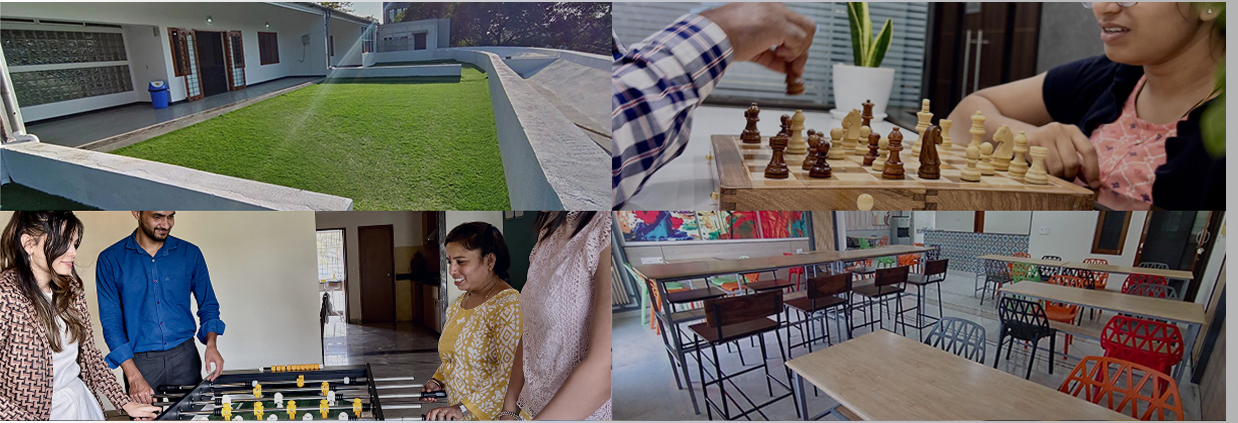
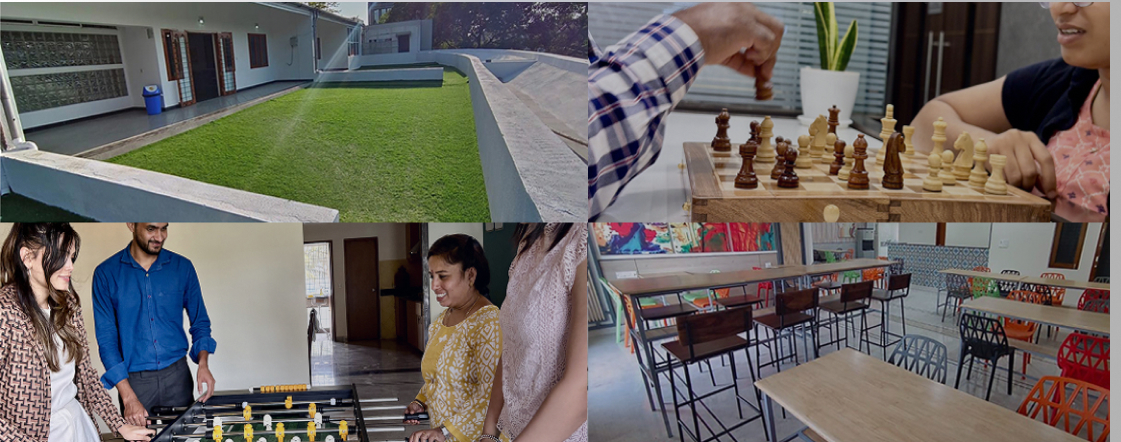
REFINE:REPLACED IMAGES AT KIFE AT VST

diff --git a/src/components/LifeAtVst.tsx b/src/components/LifeAtVst.tsx
@@ -16,7 +16,7 @@ const LifeAtVst = () => {
       title: "Life At VST",
       subtitle: "Commitment To Partnerships",
       description:
-        "Strong partnerships are the cornerstone of enduring success. We cultivate collaborative ecosystems built on trust, transparency, and mutual growth. By forming strategic alliances across industries, our partners gain access to deep expertise, shared resources, and a supportive network—driving innovation and sustainable success together. With every collaboration, we bring the same focus, passion, and commitment that turns every brand we touch into a success story.",
+        "Strong partnerships are the cornerstone of enduring success. We cultivate collaborative ecosystems built on trust, transparency and mutual growth. By forming strategic alliances across industries, our partners gain access to deep expertise, shared resources and a supportive network—driving innovation and sustainable success together. With every collaboration, we bring the same focus, passion and commitment that turns every brand we touch into a success story.",
     },
     {
       number: "02",
@@ -24,7 +24,7 @@ const LifeAtVst = () => {
       title: "Life At VST",
       subtitle: "Fueling Talent With Opportunity",
       description:
-        "People are our greatest strength. We're dedicated to nurturing talent through dynamic career paths, continuous learning, and skill-building initiatives. Our culture of innovation, inclusivity, and growth empowers employees to thrive, lead with confidence, and shape a brighter future—for themselves and for the organisation. We continuously invest in enhancing the quality of professional life—through thoughtful policies, modern tools, and a supportive work environment that enables people to feel valued, motivated, and future-ready.",
+        "People are our greatest strength. We're dedicated to nurturing talent through dynamic career paths, continuous learning and skill-building initiatives. Our culture of innovation, inclusivity and growth empowers employees to thrive, lead with confidence and shape a brighter future—for themselves and for the organisation. We continuously invest in enhancing the quality of professional life—through thoughtful policies, modern tools and a supportive work environment that enables people to feel valued, motivated and future-ready.",
     },
     {
       number: "03",
@@ -32,7 +32,7 @@ const LifeAtVst = () => {
       title: "Life At VST",
       subtitle: "Innovation Through Collaboration",
       description:
-        "Community lies at the heart of who we are. We foster a workplace where collaboration, belonging, and well-being are prioritised. Through engaging experiences, meaningful initiatives, and a culture that celebrates both work and play, our environment supports not just productivity—but personal joy too. We believe work should be fulfilling and fun, with the right balance that makes every day feel worthwhile.",
+        "Community lies at the heart of who we are. We foster a workplace where collaboration, belonging and well-being are prioritised. Through engaging experiences, meaningful initiatives and a culture that celebrates both work and play, our environment supports not just productivity—but personal joy too. We believe work should be fulfilling and fun, with the right balance that makes every day feel worthwhile.",
     },
   ]
 
@@ -80,7 +80,7 @@ const LifeAtVst = () => {
            onMouseEnter={() => setIsHovered(true)}
            onMouseLeave={() => setIsHovered(false)}>
         {/* Left half - Image container */}
-        <div className="relative w-full md:w-1/2 h-462px">
+        <div className="relative w-full md:w-1/2 h-562px">
           {slides.map((slide, index) => (
             <motion.div
               key={index}
@@ -96,7 +96,8 @@ const LifeAtVst = () => {
                 src={slide.image}
                 alt={`Life at VST ${index + 1}`}
                 layout="fill"
-                objectFit="cover"
+                objectFit="contain"
+                objectPosition="left"
               />
             </motion.div>
           ))}
@@ -109,15 +110,15 @@ const LifeAtVst = () => {
             {/* Content wrapper to maintain consistent width */}
             <div className="w-full max-w-[75%]">
               {/* Heading with digits on same line */}
-              <div className="flex items-center w-full mb-2">
+              <div className="flex items-center w-full ">
                 <div className="flex items-baseline w-full">
                   {/* Number container with fixed width */}
                   <div className="flex items-baseline mr-2 md:mr-4 flex-shrink-0">
-                    <span className="text-clamp-80 font-rocWide text-white font-weight-200">0</span>
+                    <span className="text-4xl md:text-5xl lg:text-6xl font-rocWide text-white font-weight-200">0</span>
                     <AnimatePresence mode="wait">
                       <motion.span
                         key={currentSlide}
-                        className="text-clamp-80 font-rocWide animate-flowing-gradient"
+                        className="text-4xl md:text-5xl lg:text-6xl font-rocWide animate-flowing-gradient"
                         initial={{ opacity: 0, y: 20 }}
                         animate={{ opacity: 1, y: 0 }}
                         exit={{ opacity: 0, y: -20 }}
@@ -159,10 +160,10 @@ const LifeAtVst = () => {
                   transition={{ duration: 0.5, ease: "easeOut" }}
                   className="w-full h-[230px] md:h-[300px] overflow-y-auto"
                 >
-                  <h2 className="text-xl md:text-lg lg:text-lg xl:text-lg font-normal mb-3 text-left font-roc">
+                  <h2 className="text-lg md:text-xl font-normal mb-2 text-left font-roc">
                     {slides[currentSlide].subtitle}
                   </h2>
-                  <p className="text-base md:text-sm lg:text-base xl:text-base font-normal leading-relaxed w-full" 
+                  <p className="text-sm md:text-base font-normal leading-relaxed w-full" 
                      style={{ 
                        wordBreak: "break-word",
                        textAlign: "justify",

diff --git a/src/app/manufacture/page.tsx b/src/app/manufacture/page.tsx
@@ -80,7 +80,7 @@ const ManufacturePage = () => {
     <div className="xl:pt-12 bg-[linear-gradient(180deg,#02231C_0%,#04473F_50%,#066C5E_100%)]">
       <div className="mx-auto px-4 md:px-8 lg:px-12 pb-12 flex flex-col justify-around w-[95%] md:w-[98%]">
         {/* Tillers & Tractors Heading */}
-        <h1 className="text-clamp-120 font-normal my-8 md:my-12 text-white text-center font-roc">
+        <h1 className="text-3xl sm:text-4xl lg:text-[50px] xl:text-[80px] 2xl:text-[70px] 3xl:text-[100px] font-normal mt-8 md:my-8 text-white text-center font-roc">
           VST Tillers & Tractors
         </h1>
         
